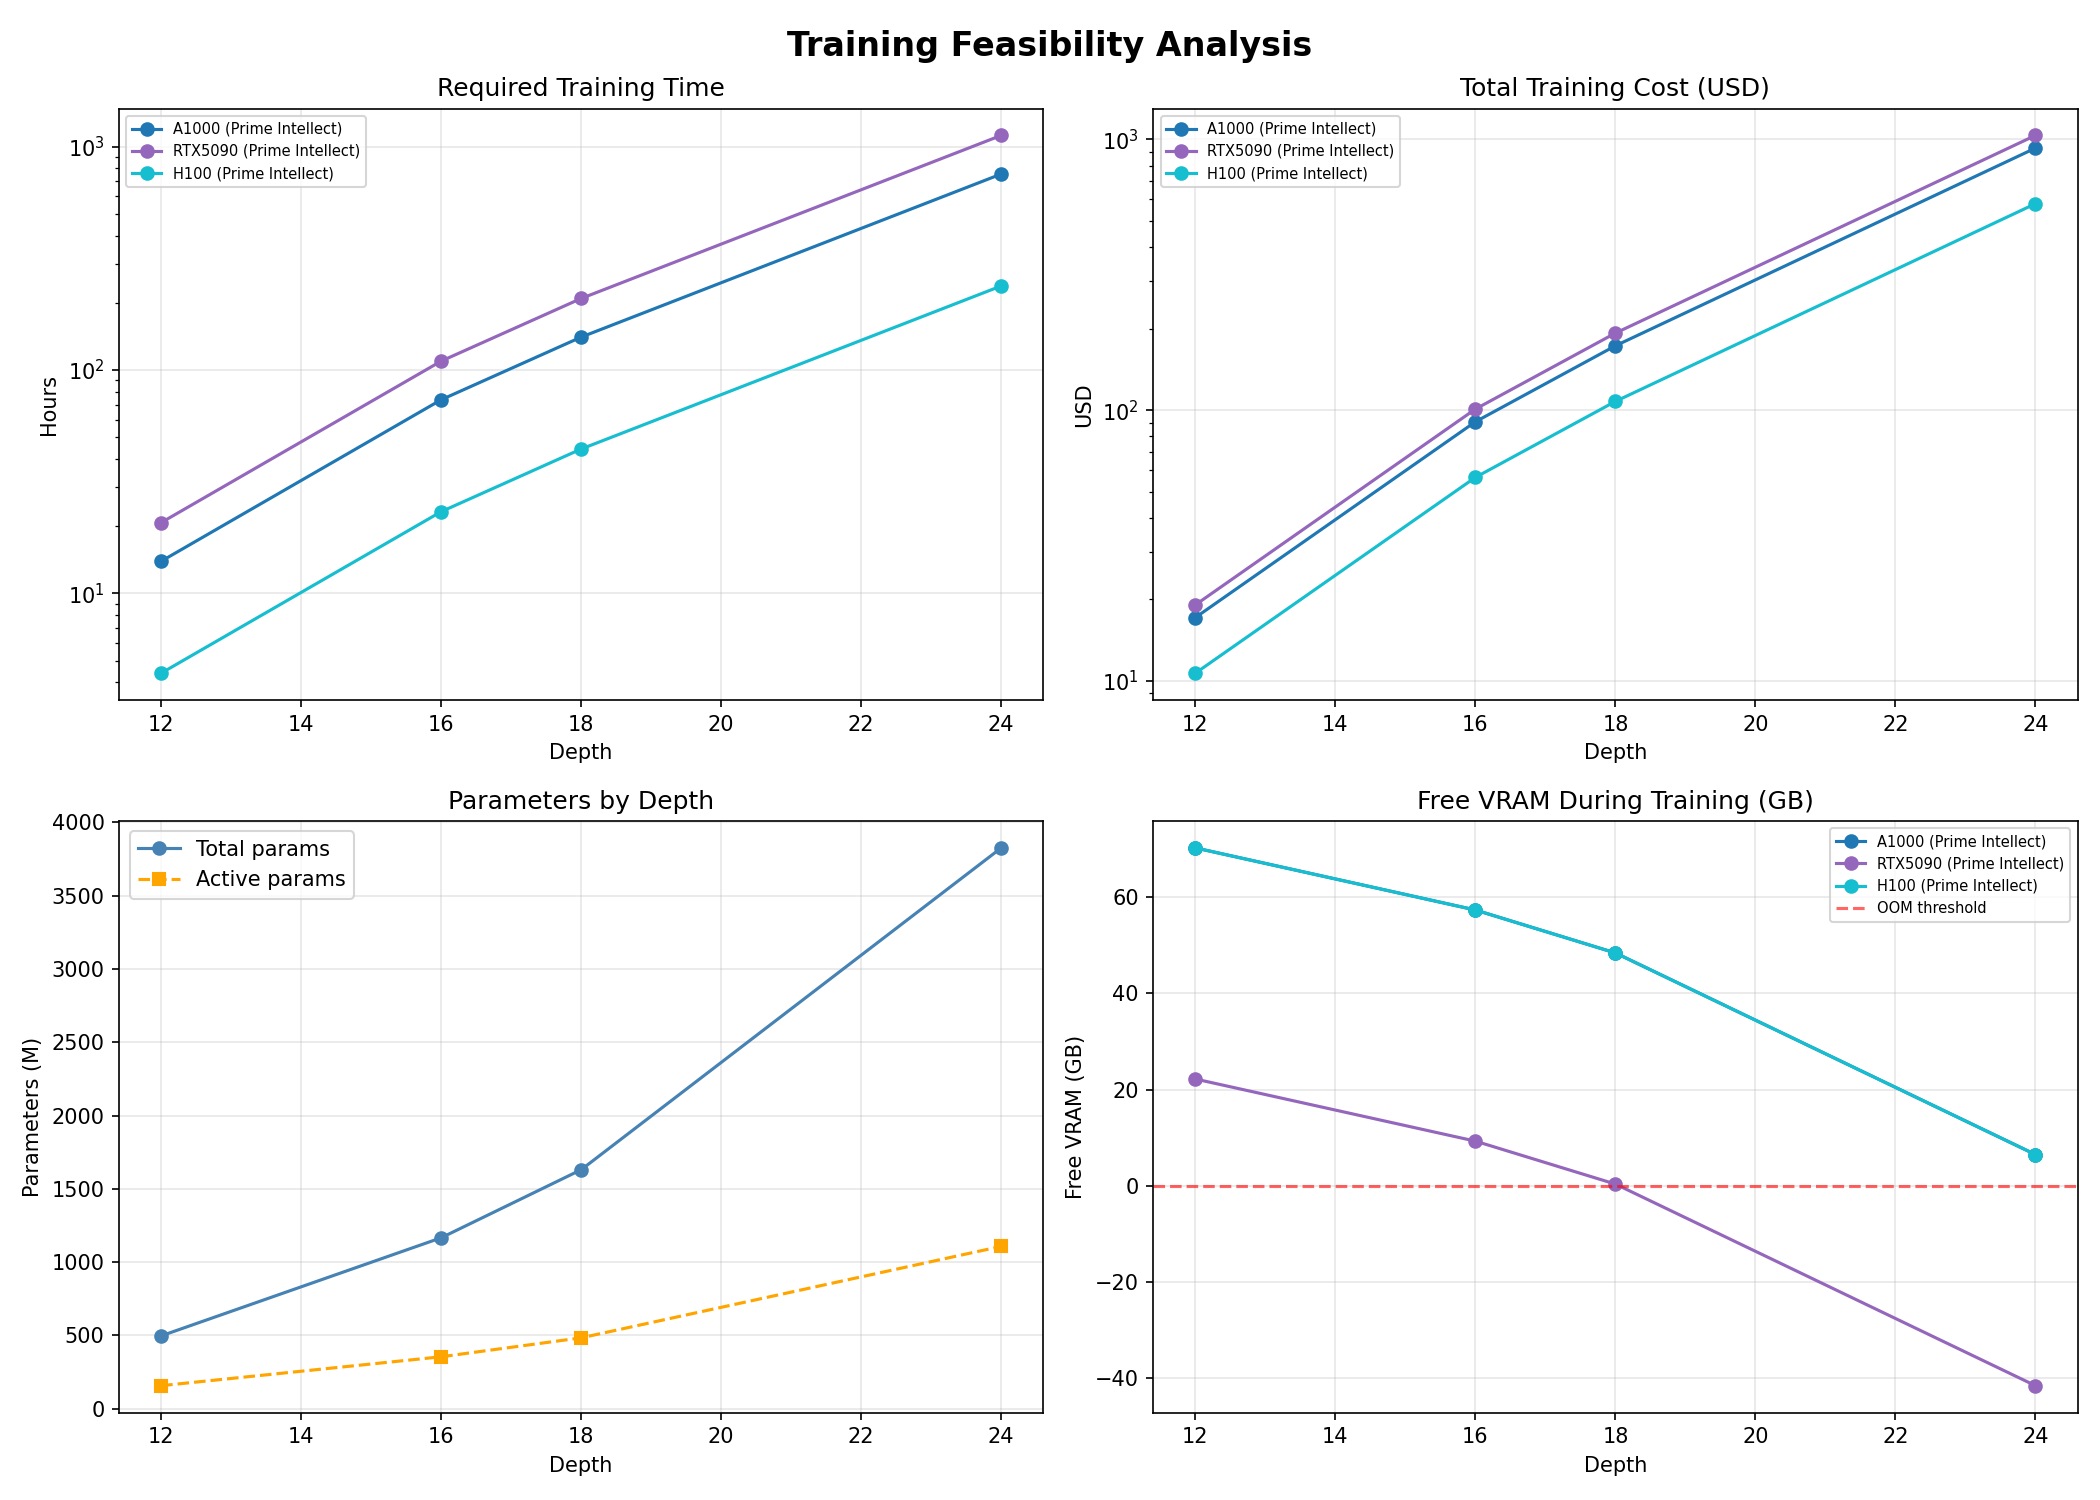
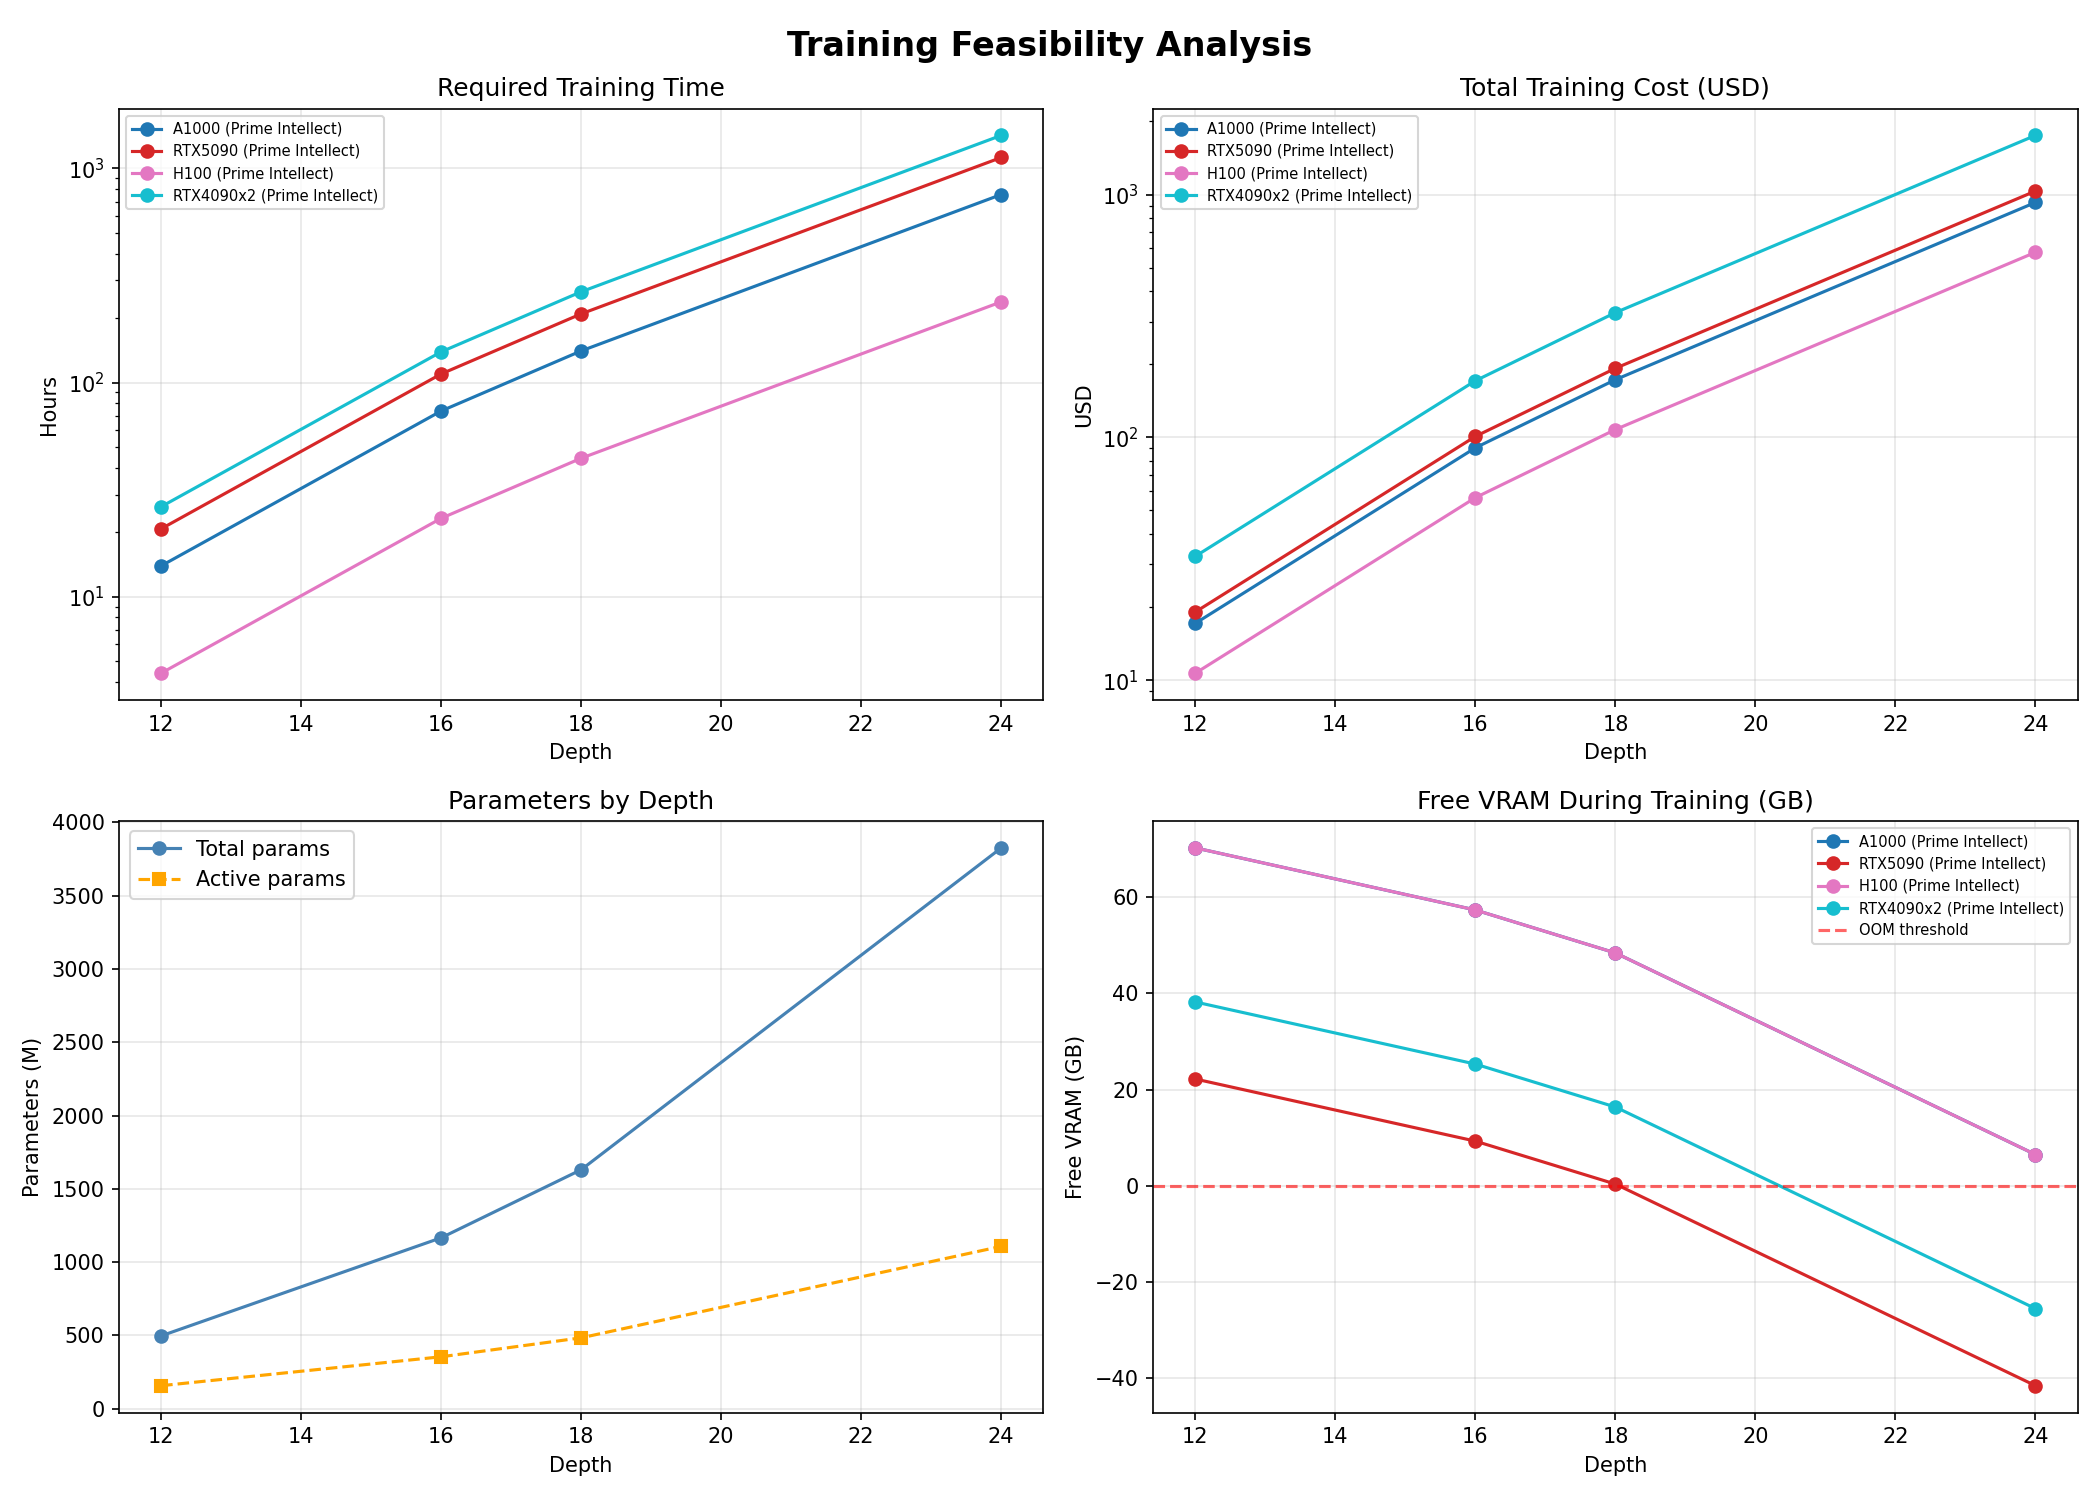
update calculation compute resources

diff --git a/calculate.py b/calculate.py
@@ -65,6 +65,11 @@ COMPUTE_RESOURCES = {
         "vram_gb": 80,
         "cost_per_hour": 2.43,
     },
+    "RTX4090x2 (Prime Intellect)": {
+        "tflops": 82.6 * 2,
+        "vram_gb": 24 * 2,
+        "cost_per_hour": 1.23,
+    }
 }
 
 # --- Model / training configuration ---
